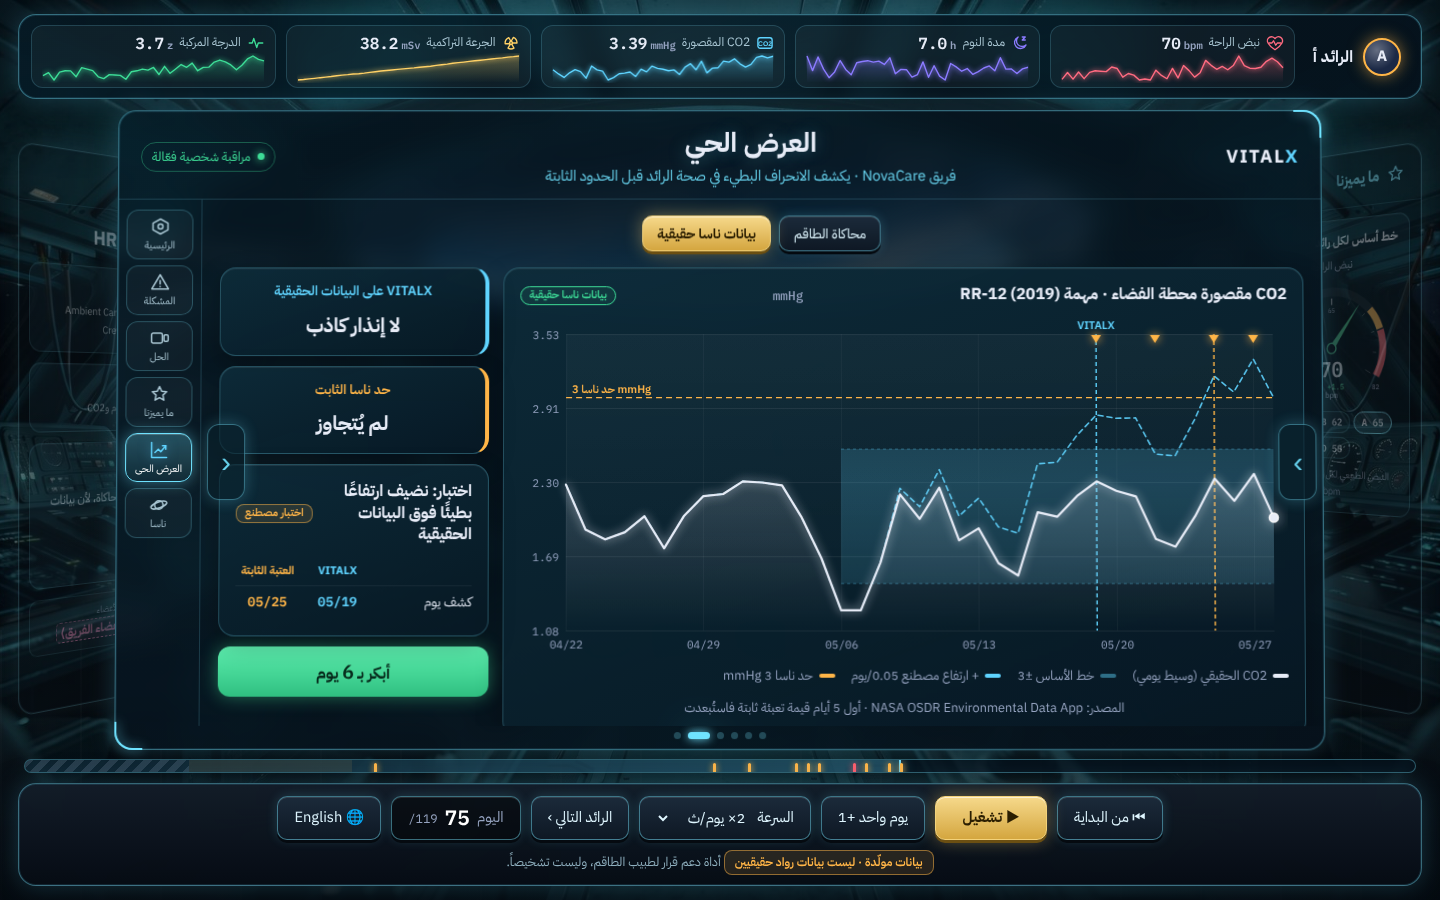
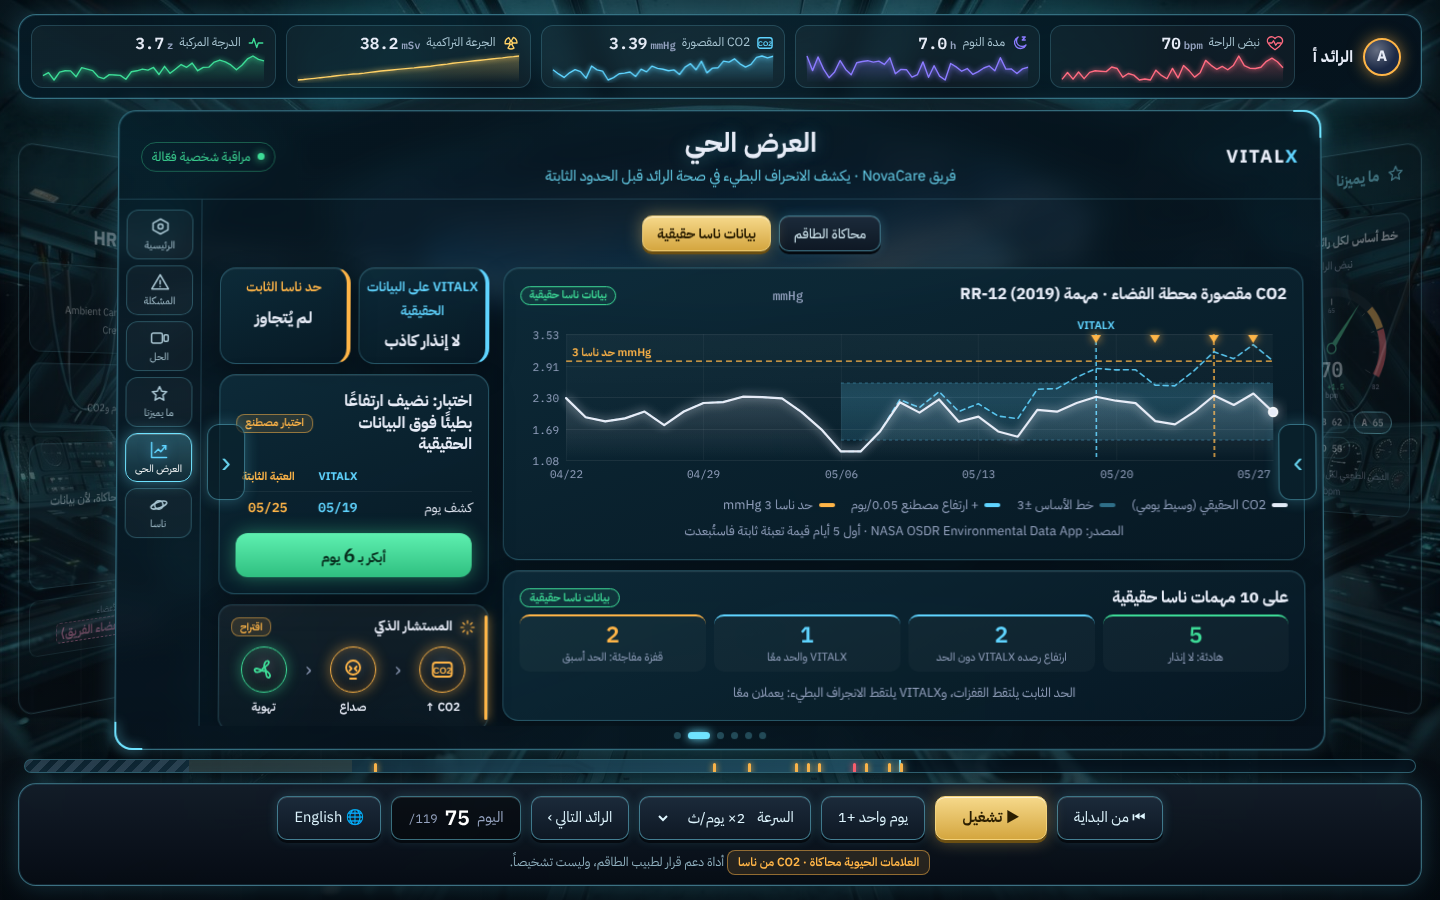
Run engine on all 10 OSDR EDA missions with cabin CO2; show honest 4-way summary in real-data demo; compact layout
Claude-Session: https://claude.ai/code/session_01UtBsK4s4T378oRrdVRrzc9

Changed region(s): [[0.125, 0.3111, 0.9062, 0.8089], [0.4688, 0.6844, 0.7812, 0.8089], [0.3438, 0.9333, 0.6562, 0.9644]]

diff --git a/site.js b/site.js
@@ -674,17 +674,22 @@
   function screenReal() {
     const P = S6.demo, R = realData(), dt = i => i == null ? `<b class="wait">${tx(P.never)}</b>` : `<b>${tx(P.day)} <span dir="ltr">${realDate(i)}</span></b>`;
     const gap = R.t.ours != null && R.t.fixed != null ? R.t.fixed - R.t.ours : null;
-    return `${modeSwitch()}<div class="demo">
-        <div class="card demo-chart"><h3>${tx(P.realTitle)} <span class="unit">mmHg</span> <span class="tag-real">${tx(P.realTag)}</span></h3>${chartBox("cvReal", "tall")}
+    const X = window.VITALX_NASA_ALL;
+    const all = X ? `<div class="card cohort all-missions"><h3>${tx(P.allHead)} <span class="tag-real">${tx(P.realTag)}</span></h3><div class="all-grid">
+            ${[["quiet", P.allQuiet, "var(--built)"], ["below", P.allBelow, "var(--personal)"], ["same", P.allSame, "var(--accent)"], ["fixedFirst", P.allFixed, "var(--fixed)"]].map(([k, lab, col]) =>
+              `<div class="all-cell" style="--k:${col}"><b dir="ltr">${X.count[k] || 0}</b><span>${tx(lab)}</span></div>`).join("")}</div>
+            <p class="six-note" title="${esc(X.rows.map(r => r.mission + ": " + r.cat).join(" · "))}">${tx(P.allNote)}</p></div>` : "";
+    return `${modeSwitch()}<div class="demo real">
+        <div class="demo-main"><div class="card demo-chart"><h3>${tx(P.realTitle)} <span class="unit">mmHg</span> <span class="tag-real">${tx(P.realTag)}</span></h3>${chartBox("cvReal")}
           ${legend([["#e7ecf7", P.observed], ["rgba(95,212,255,.45)", L.baselineBand], [css("--personal"), P.drift], [css("--fixed"), P.limit]])}
-          <p class="six-note">${tx(P.source)}</p></div>
+          <p class="six-note">${tx(P.source)}</p></div>${all}</div>
         <div class="demo-side">
-          <div class="card score o"><small>${tx(P.realOurs)}</small><b>${R.r.ours == null ? tx(P.noAlarm) : `${tx(P.day)} <span dir="ltr">${realDate(R.r.ours)}</span>`}</b></div>
-          <div class="card score f"><small>${tx(P.realFixed)}</small><b>${R.r.fixed == null ? tx(P.noBreach) : `${tx(P.day)} <span dir="ltr">${realDate(R.r.fixed)}</span>`}</b></div>
+          <div class="duo"><div class="card score o"><small>${tx(P.realOurs)}</small><b>${R.r.ours == null ? tx(P.noAlarm) : `${tx(P.day)} <span dir="ltr">${realDate(R.r.ours)}</span>`}</b></div>
+          <div class="card score f"><small>${tx(P.realFixed)}</small><b>${R.r.fixed == null ? tx(P.noBreach) : `${tx(P.day)} <span dir="ltr">${realDate(R.r.fixed)}</span>`}</b></div></div>
           <div class="card cohort"><h3>${tx(P.driftHead)} <span class="tag-synth">${tx(P.testTag)}</span></h3>
             <div class="cmp head"><span></span><b class="o">VITALX</b><b class="f">${tx(L.fixedThr)}</b></div>
-            <div class="cmp"><span>${tx(P.detected)}</span><b class="o" dir="ltr">${R.t.ours == null ? "—" : realDate(R.t.ours)}</b><b class="f" dir="ltr">${R.t.fixed == null ? "—" : realDate(R.t.fixed)}</b></div></div>
-          ${gap ? `<div class="gap">${tx(P.earlier)} <b dir="ltr">${gap}</b> ${tx(S6.edge.days)}</div>` : ""}
+            <div class="cmp"><span>${tx(P.detected)}</span><b class="o" dir="ltr">${R.t.ours == null ? "—" : realDate(R.t.ours)}</b><b class="f" dir="ltr">${R.t.fixed == null ? "—" : realDate(R.t.fixed)}</b></div>
+            ${gap ? `<div class="gap">${tx(P.earlier)} <b dir="ltr">${gap}</b> ${tx(S6.edge.days)}</div>` : ""}</div>
           ${advisor(R.t.ours != null ? "co2" : null, 2)}
         </div></div>`;
   }

diff --git a/data/run-all-missions.js b/data/run-all-missions.js
@@ -1,0 +1,21 @@
+#!/usr/bin/env node
+// يشغّل محرك VITALX على CO2 المقصورة لكل مهمات NASA OSDR EDA (مجلد فيه <MISSION>/telemetry_data.csv)
+// node data/run-all-missions.js <dir>
+const fs = require("fs"), path = require("path"), E = require("../engine.js");
+const dir = process.argv[2], BASE = 14, K = 0.5, H = 5, LIMIT = 3;
+const out = [];
+for (const m of fs.readdirSync(dir).sort()) {
+  const f = path.join(dir, m, "telemetry_data.csv"); if (!fs.existsSync(f)) continue;
+  const lines = fs.readFileSync(f, "utf8").trim().split(/\r?\n/), head = lines[0].split(",");
+  const ti = head.indexOf("time"), ci = head.indexOf("co2_iss"); if (ti < 0 || ci < 0) continue;
+  const by = new Map();
+  for (const l of lines.slice(1)) { const c = l.split(","), v = parseFloat(c[ci]); if (!isFinite(v)) continue; const k = c[ti].slice(0, 10); if (!by.has(k)) by.set(k, []); by.get(k).push(v); }
+  const days = [...by.keys()].sort().filter(k => { const a = by.get(k); return !(a.length > 3 && Math.min(...a) === Math.max(...a)); });
+  const daily = days.map(k => E.median(by.get(k)) * 760 / 1e6);
+  if (daily.length < BASE + 3) { out.push({ mission: m, days: daily.length, skipped: "too short" }); continue; }
+  const st = E.baselineStats(daily.slice(0, BASE), { type: "relative", value: 0.05 }), step = E.makeCusum(K, H);
+  const alerts = []; let over = 0, firstOver = null;
+  daily.forEach((v, i) => { if (v > LIMIT) { over++; if (!firstOver) firstOver = days[i]; } if (i < BASE) return; const r = step(E.robustZ(v, st)); if (r.fired && r.side > 0) alerts.push(days[i]); });
+  out.push({ mission: m, from: days[0], to: days.at(-1), days: daily.length, median: +E.median(daily).toFixed(2), max: +Math.max(...daily).toFixed(2), alerts, firstAlert: alerts[0] || null, overLimitDays: over, firstOver });
+}
+console.log(JSON.stringify(out, null, 1));

diff --git a/data/eda-missions.js b/data/eda-missions.js
@@ -1,0 +1,2 @@
+/* VITALX على CO2 مقصورة محطة الفضاء في كل مهمات NASA OSDR EDA التي فيها CO2 (مولّد بـ data/run-all-missions.js) */
+window.VITALX_NASA_ALL = {"n":10,"count":{"fixedFirst":2,"quiet":5,"below":2,"same":1},"rows":[{"mission":"RR-1","from":"2014-09-20","to":"2014-11-01","days":38,"median":2.48,"max":3.16,"firstAlert":"2014-10-26","firstOver":"2014-10-05","cat":"fixedFirst"},{"mission":"RR-10","from":"2020-12-07","to":"2021-01-03","days":28,"median":1.63,"max":1.89,"firstAlert":null,"firstOver":null,"cat":"quiet"},{"mission":"RR-12","from":"2019-04-22","to":"2019-05-28","days":37,"median":2.02,"max":2.37,"firstAlert":null,"firstOver":null,"cat":"quiet"},{"mission":"RR-19","from":"2019-12-10","to":"2020-01-07","days":29,"median":2,"max":2.2,"firstAlert":null,"firstOver":null,"cat":"quiet"},{"mission":"RR-23","from":"2020-12-12","to":"2021-01-15","days":35,"median":1.65,"max":1.97,"firstAlert":null,"firstOver":null,"cat":"quiet"},{"mission":"RR-3","from":"2016-04-10","to":"2016-05-27","days":46,"median":2.78,"max":4.71,"firstAlert":"2016-05-09","firstOver":"2016-04-18","cat":"fixedFirst"},{"mission":"RR-5","from":"2017-06-10","to":"2017-08-08","days":60,"median":1.81,"max":2.68,"firstAlert":"2017-06-30","firstOver":null,"cat":"below"},{"mission":"RR-6","from":"2017-12-11","to":"2018-02-06","days":55,"median":2.41,"max":2.68,"firstAlert":"2018-01-10","firstOver":null,"cat":"below"},{"mission":"RR-7","from":"2018-07-06","to":"2018-09-18","days":73,"median":2.55,"max":6.22,"firstAlert":"2018-08-20","firstOver":"2018-08-20","cat":"same"},{"mission":"RR-9","from":"2018-08-18","to":"2018-09-17","days":31,"median":2.58,"max":2.79,"firstAlert":null,"firstOver":null,"cat":"quiet"}]};

diff --git a/six.css b/six.css
@@ -140,3 +140,18 @@
 .w-status { display: flex; align-items: center; justify-content: center; gap: 5px; }
 .w-adv { display: inline-flex; width: 14px; height: 14px; }
 .w-adv svg { width: 100%; height: 100%; }
+.cmp.all { grid-template-columns: minmax(0, 1fr) 40px; }
+/* وضع البيانات الحقيقية: مضغوط ليظهر كاملاً */
+.demo.real .demo-main { display: flex; flex-direction: column; gap: 10px; min-width: 0; }
+.demo.real .chartbox canvas { height: 170px; }
+.demo.real .gap { font-size: .85rem; } .demo.real .cohort h3 { margin-bottom: 6px; }
+.demo.real .demo-chart .six-note { margin-top: 4px; }
+.duo { display: grid; grid-template-columns: 1fr 1fr; gap: 8px; }
+.duo .score { padding: 8px 6px; } .duo .score b { font-size: 1rem; }
+.demo.real .cohort .gap { margin-top: 8px; padding: 5px; }
+.demo.real .advisor { margin-top: 0; }
+.all-grid { display: grid; grid-template-columns: repeat(4, minmax(0, 1fr)); gap: 8px; }
+.all-cell { text-align: center; padding: 6px 4px; border-radius: 10px; background: rgba(255,255,255,.03); border-top: 2px solid var(--k); }
+.all-cell b { display: block; font: 700 1.4rem/1.1 var(--mono); color: var(--k); }
+.all-cell span { display: block; font-size: .7rem; color: var(--muted); margin-top: 3px; line-height: 1.3; }
+@media (max-width: 760px) { .all-grid { grid-template-columns: 1fr 1fr; } }

diff --git a/content.js b/content.js
@@ -100,6 +100,12 @@ window.VITALX_CONTENT = {
       driftHead: { ar: "اختبار: نضيف ارتفاعًا بطيئًا فوق البيانات الحقيقية", en: "Test: add a slow rise on top of the real data" },
       never: { ar: "لم يكشف", en: "Never" },
       day: { ar: "يوم", en: "day" },
+      allHead: { ar: "على 10 مهمات ناسا حقيقية", en: "Across 10 real NASA missions" },
+      allQuiet: { ar: "هادئة: لا إنذار", en: "Quiet: no alert" },
+      allBelow: { ar: "ارتفاع رصده VITALX دون الحد", en: "Rise VITALX caught below the limit" },
+      allSame: { ar: "VITALX والحد معًا", en: "VITALX and limit together" },
+      allFixed: { ar: "قفزة مفاجئة: الحد أسبق", en: "Sudden spike: limit first" },
+      allNote: { ar: "الحد الثابت يلتقط القفزات، وVITALX يلتقط الانجراف البطيء: يعملان معًا", en: "Fixed limits catch spikes, VITALX catches slow drift: they work together" },
       source: { ar: "المصدر: NASA OSDR Environmental Data App · أول 5 أيام قيمة تعبئة ثابتة فاستُبعدت", en: "Source: NASA OSDR Environmental Data App · first 5 days were a constant fill value and were excluded" }
     },
 

diff --git a/index.html b/index.html
@@ -76,6 +76,7 @@
 <script src="content.js"></script>
 <script src="engine.js"></script>
 <script src="data/rr12-daily.js"></script>
+<script src="data/eda-missions.js"></script>
 <script src="site.js"></script>
 </body>
 </html>
